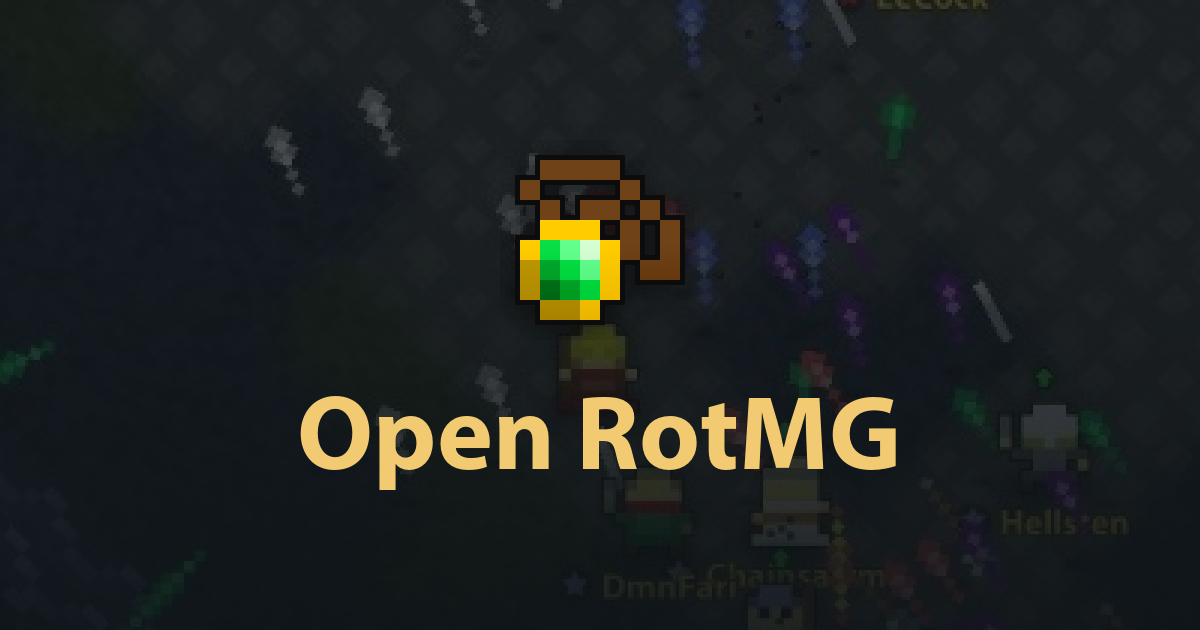
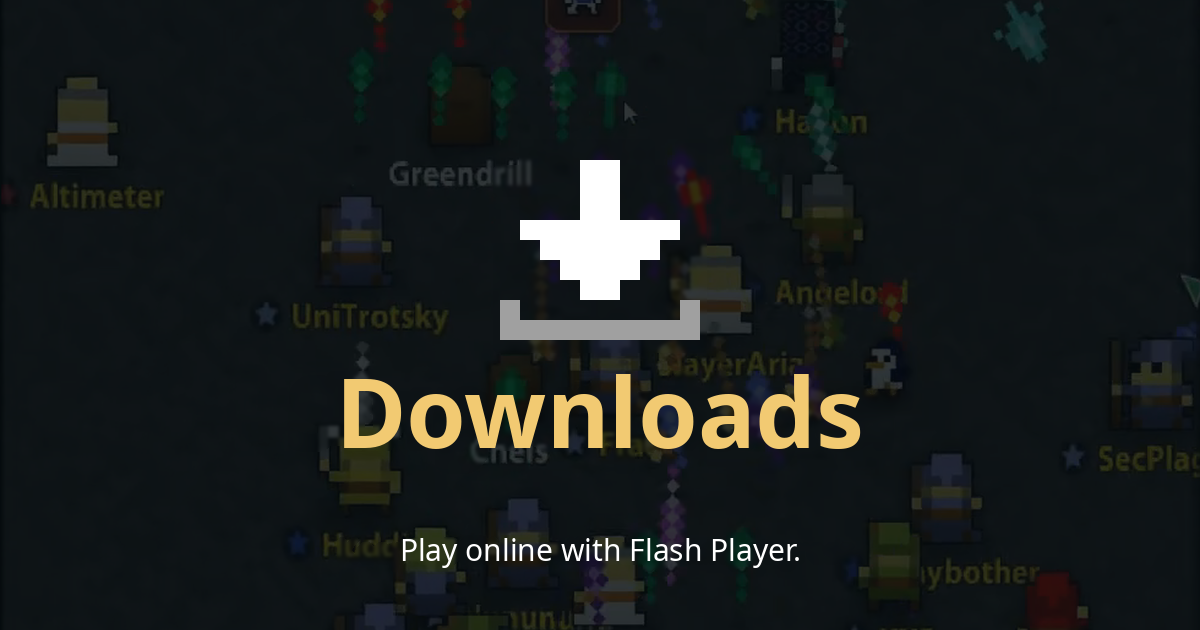
Give downloads its own unfurl artwork (#561)

diff --git a/public/download/index.html b/public/download/index.html
@@ -5,7 +5,7 @@
   <meta name="viewport" content="width=device-width, initial-scale=1">
   <meta http-equiv="Content-Security-Policy" content="default-src 'self'; style-src 'self'; img-src 'self'; object-src 'none'; base-uri 'self'">
   <title>Downloads | Open RotMG</title>
-  <meta name="description" content="Download the game and Adobe Flash Player. Play on the live server with your existing account.">
+  <meta name="description" content="Download the game and Adobe Flash Player to play Open RotMG online.">
   <meta name="theme-color" content="#000000">
   <link rel="canonical" href="{{SITE_URL}}download/">
   <link rel="stylesheet" href="{{BASE}}style.css">
@@ -14,7 +14,6 @@
 <div class="site-shell">
   <main class="page-main"><div class="about-copy">
     <h1>Downloads</h1>
-    <p>Play on the live server with your browser login. Guests: register in-browser first to keep progress.</p>
     <p><a href="openrotmg.swf" download>Download the game (SWF)</a></p>
     <p>Open it with Adobe Flash Player: <a href="https://fpdownload.macromedia.com/pub/flashplayer/updaters/32/flashplayer_32_sa.exe">Windows</a> · <a href="https://fpdownload.macromedia.com/pub/flashplayer/updaters/32/flashplayer_32_sa.dmg">macOS</a> · <a href="https://fpdownload.macromedia.com/pub/flashplayer/updaters/32/flash_player_sa_linux.x86_64.tar.gz">Linux</a></p>
   </div></main>
